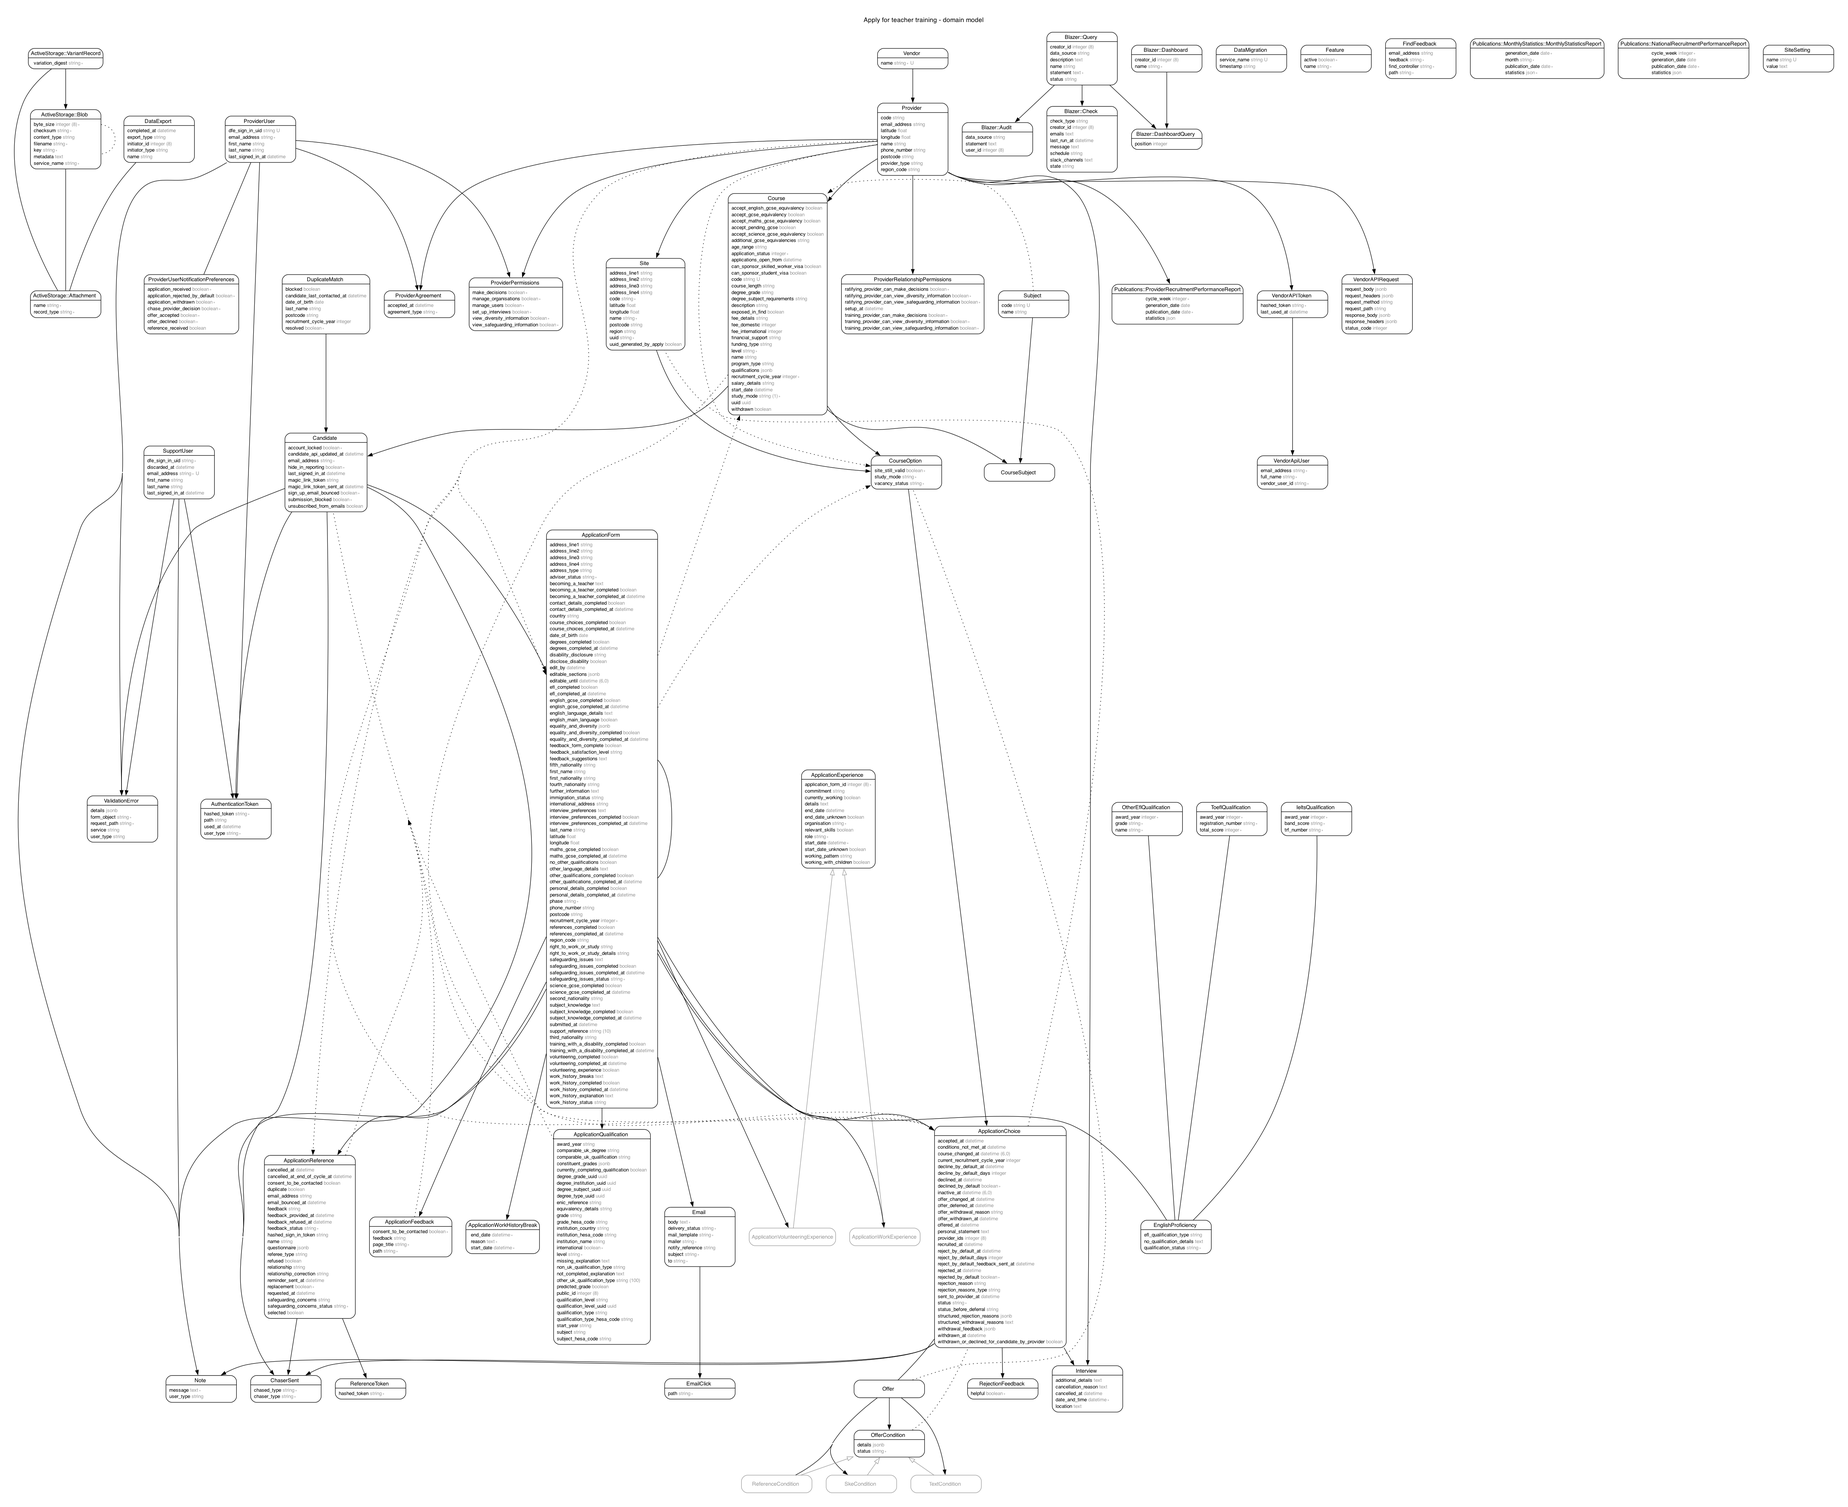
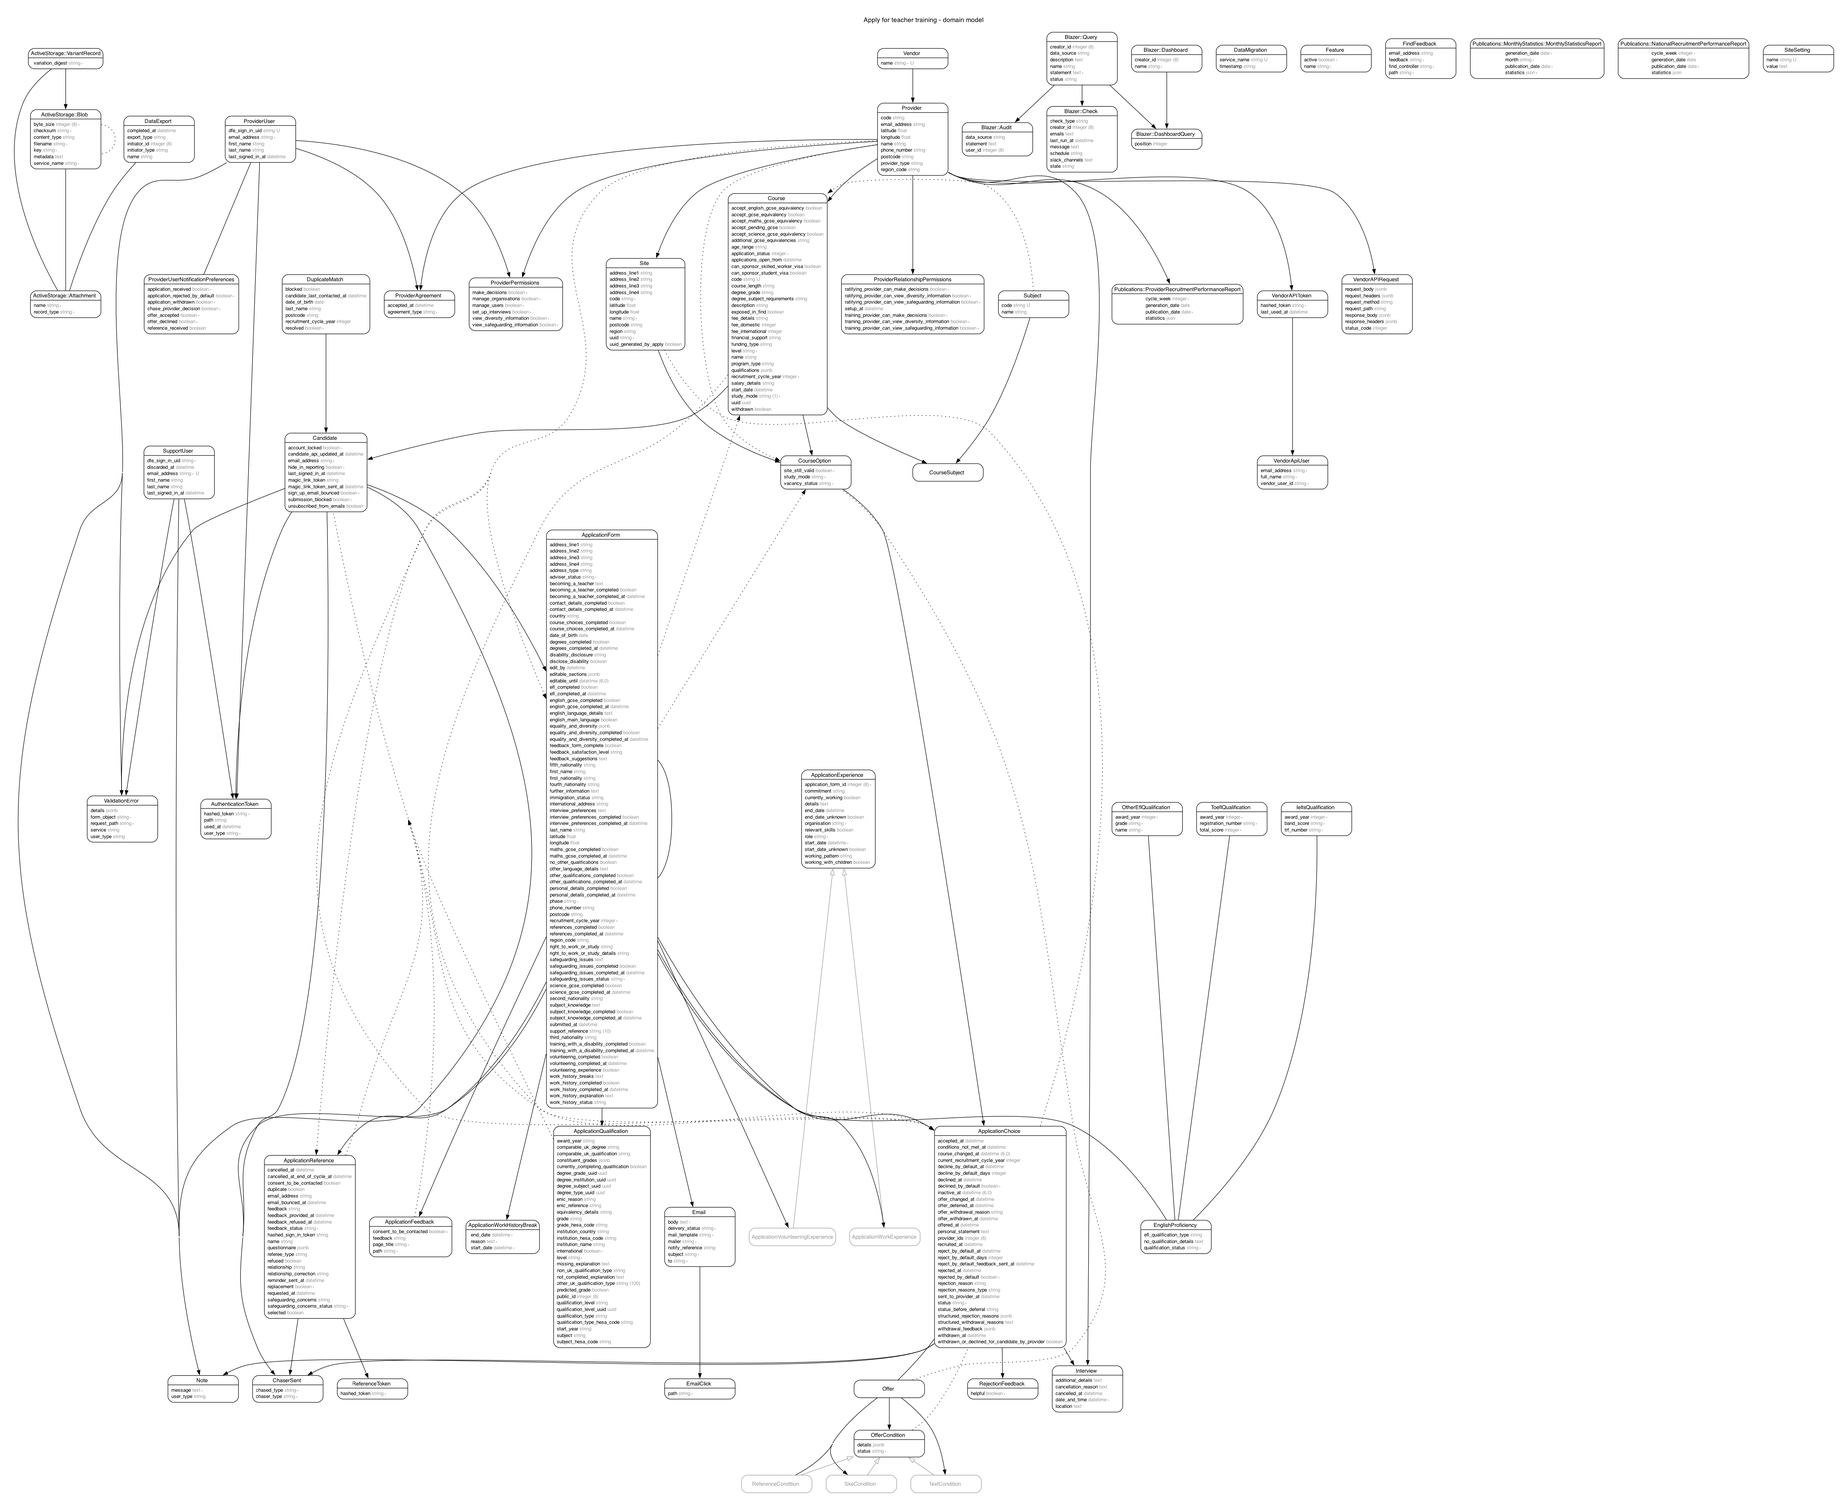
Update ENIC flow and content

Changed region(s): [[0.2806, 0.7484, 0.343, 0.9043], [0.4365, 0.2806, 0.4989, 0.343], [0.1247, 0.9043, 0.1559, 0.9354]]

diff --git a/app/controllers/candidate_interface/gcse/enic_controller.rb b/app/controllers/candidate_interface/gcse/enic_controller.rb
@@ -1,21 +1,24 @@
 module CandidateInterface
   class Gcse::EnicController < Gcse::BaseController
     include Gcse::ResolveGcseEditPathConcern
+    include Gcse::ResolveGcseStatementComparibilityPathConcern
 
     def new
-      @enic_form = GcseEnicForm.build_from_qualification(current_qualification)
+      @enic_form = GcseEnicSelectionForm.build_from_qualification(current_qualification)
     end
 
     def edit
-      @enic_form = GcseEnicForm.build_from_qualification(current_qualification)
+      @enic_form = GcseEnicSelectionForm.build_from_qualification(current_qualification)
       @return_to = return_to_after_edit(default: candidate_interface_gcse_review_path)
     end
 
     def create
-      @enic_form = GcseEnicForm.new(enic_params)
+      @enic_form = GcseEnicSelectionForm.new(enic_params)
 
       if @enic_form.save(current_qualification)
-        redirect_to resolve_gcse_edit_path(subject_param)
+        redirect_to resolve_gcse_edit_path(subject_param) if enic_params[:have_enic_reference] == "No, I'm waiting for it to arrive"
+        redirect_to resolve_gcse_edit_path(subject_param) if enic_params[:have_enic_reference] == 'No, I do not want a statement of comparability'
+        redirect_to resolve_gcse_statement_comparibility_path(subject_param) if enic_params[:have_enic_reference] == 'Yes'
       else
         track_validation_error(@enic_form)
         render :new
@@ -23,11 +26,15 @@ module CandidateInterface
     end
 
     def update
-      @enic_form = GcseEnicForm.new(enic_params)
+      @enic_form = GcseEnicSelectionForm.new(enic_params)
       @return_to = return_to_after_edit(default: candidate_interface_gcse_review_path)
 
       if @enic_form.save(current_qualification)
-        redirect_to @return_to[:back_path]
+        if enic_params[:have_enic_reference] == 'Yes'
+          redirect_to resolve_gcse_edit_statement_comparibility_path(subject_param)
+        else
+          redirect_to @return_to[:back_path]
+        end
       else
         track_validation_error(@enic_form)
         render :edit
@@ -37,9 +44,10 @@ module CandidateInterface
   private
 
     def enic_params
-      strip_whitespace params
-        .require(:candidate_interface_gcse_enic_form)
-        .permit(:have_enic_reference, :enic_reference, :comparable_uk_qualification)
+      form_params = params[:candidate_interface_gcse_enic_selection_form]
+      return {} unless form_params
+
+      strip_whitespace(form_params).permit(:have_enic_reference)
     end
   end
 end

diff --git a/spec/forms/candidate_interface/gcse_enic_form_spec.rb b/spec/forms/candidate_interface/gcse_enic_form_spec.rb
@@ -11,19 +11,8 @@ RSpec.describe CandidateInterface::GcseEnicForm do
       }
     end
 
-    it { is_expected.to validate_presence_of(:have_enic_reference) }
-
-    context 'validates enic_reference if they have chosen that they have one' do
-      before { allow(form).to receive(:chose_to_provide_enic_reference?).and_return(true) }
-
-      it { is_expected.to validate_presence_of(:enic_reference) }
-    end
-
-    context 'validates comparable_uk_qualification if they have chosen to provide a ENIC reference' do
-      before { allow(form).to receive(:chose_to_provide_enic_reference?).and_return(true) }
-
-      it { is_expected.to validate_presence_of(:comparable_uk_qualification) }
-    end
+    it { is_expected.to validate_presence_of(:enic_reference) }
+    it { is_expected.to validate_presence_of(:comparable_uk_qualification) }
 
     describe '#build_from_qualification' do
       it 'creates an object based on the provided ApplicationQualification' do
@@ -32,7 +21,6 @@ RSpec.describe CandidateInterface::GcseEnicForm do
           qualification,
         )
 
-        expect(enic_form.have_enic_reference).to eq 'Yes'
         expect(enic_form.enic_reference).to eq qualification.enic_reference
         expect(enic_form.comparable_uk_qualification).to eq qualification.comparable_uk_qualification
       end
@@ -41,7 +29,6 @@ RSpec.describe CandidateInterface::GcseEnicForm do
     describe '#save' do
       let(:form_data) do
         {
-          have_enic_reference: 'Yes',
           enic_reference: '12345',
           comparable_uk_qualification: 'GCSE (grades A*-C / 9-4)',
         }
@@ -60,19 +47,6 @@ RSpec.describe CandidateInterface::GcseEnicForm do
         expect(enic_form.save(qualification)).to be(true)
         expect(qualification.enic_reference).to eq form_data[:enic_reference]
         expect(qualification.comparable_uk_qualification).to eq form_data[:comparable_uk_qualification]
-      end
-
-      it 'updates enic_reference and comparable_uk_qualification to nil if they choose no' do
-        qualification = build(:gcse_qualification)
-        enic_form = described_class.new(
-          have_enic_reference: 'No',
-          enic_reference: '12345',
-          comparable_uk_qualification: 'GCSE (grades A*-C / 9-4)',
-        )
-
-        expect(enic_form.save(qualification)).to be(true)
-        expect(qualification.enic_reference).to be_nil
-        expect(qualification.comparable_uk_qualification).to be_nil
       end
     end
   end

diff --git a/app/components/candidate_interface/gcse_qualification_review_component.rb b/app/components/candidate_interface/gcse_qualification_review_component.rb
@@ -1,6 +1,7 @@
 module CandidateInterface
   class GcseQualificationReviewComponent < ViewComponent::Base
     include GcseQualificationHelper
+    include Gcse::ResolveGcseStatementComparibilityPathConcern
 
     def initialize(application_form:, application_qualification:, subject:, editable: true, heading_level: 2, missing_error: false, submitting_application: false, return_to_application_review: false)
       @application_form = application_form
@@ -248,7 +249,7 @@ module CandidateInterface
 
       {
         key: t('application_form.gcse.enic_statement.review_label'),
-        value: application_qualification.enic_reference ? 'Yes' : 'No',
+        value: application_qualification.enic_reason || 'Not entered',
         action: {
           href: candidate_interface_gcse_details_edit_enic_path(change_path_params),
           visually_hidden_text: t('application_form.gcse.enic_statement.change_action'),
@@ -269,7 +270,7 @@ module CandidateInterface
         key: t('application_form.gcse.enic_reference.review_label'),
         value: application_qualification.enic_reference,
         action: {
-          href: candidate_interface_gcse_details_edit_enic_path(change_path_params),
+          href: resolve_gcse_edit_statement_comparibility_path(change_path_params[:subject]),
           visually_hidden_text: t('application_form.gcse.enic_reference.change_action'),
         },
         html_attributes: {
@@ -288,7 +289,7 @@ module CandidateInterface
         key: t('application_form.gcse.comparable_uk_qualification.review_label'),
         value: application_qualification.comparable_uk_qualification,
         action: {
-          href: candidate_interface_gcse_details_edit_enic_path(change_path_params),
+          href: resolve_gcse_edit_statement_comparibility_path(change_path_params[:subject]),
           visually_hidden_text: t('application_form.gcse.comparable_uk_qualification.change_action'),
         },
         html_attributes: {

diff --git a/config/routes/candidate.rb b/config/routes/candidate.rb
@@ -200,6 +200,21 @@ namespace :candidate_interface, path: '/candidate' do
       patch '/science/grade' => 'gcse/science/grade#create'
       get '/science/grade/edit' => 'gcse/science/grade#edit', as: :edit_gcse_science_grade
       patch '/science/grade/edit' => 'gcse/science/grade#update'
+
+      get '/maths/statement_comparibility' => 'gcse/maths/statement_comparibility#new', as: :new_gcse_maths_statement_comparibility
+      patch '/maths/statement_comparibility' => 'gcse/maths/statement_comparibility#create'
+      get '/maths/statement_comparibility/edit' => 'gcse/maths/statement_comparibility#edit', as: :edit_gcse_maths_statement_comparibility
+      patch '/maths/statement_comparibility/edit' => 'gcse/maths/statement_comparibility#update'
+
+      get '/english/statement_comparibility' => 'gcse/english/statement_comparibility#new', as: :new_gcse_english_statement_comparibility
+      patch '/english/statement_comparibility' => 'gcse/english/statement_comparibility#create'
+      get '/english/statement_comparibility/edit' => 'gcse/english/statement_comparibility#edit', as: :edit_gcse_english_statement_comparibility
+      patch '/english/statement_comparibility/edit' => 'gcse/english/statement_comparibility#update'
+
+      get '/science/statement_comparibility' => 'gcse/science/statement_comparibility#new', as: :new_gcse_science_statement_comparibility
+      patch '/science/statement_comparibility' => 'gcse/science/statement_comparibility#create'
+      get '/science/statement_comparibility/edit' => 'gcse/science/statement_comparibility#edit', as: :edit_gcse_science_statement_comparibility
+      patch '/science/statement_comparibility/edit' => 'gcse/science/statement_comparibility#update'
     end
 
     scope '/gcse/:subject', constraints: { subject: /(maths|english|science)/ } do

diff --git a/app/controllers/candidate_interface/gcse/maths/statement_comparibility_controller.rb b/app/controllers/candidate_interface/gcse/maths/statement_comparibility_controller.rb
@@ -1,0 +1,55 @@
+module CandidateInterface
+  class Gcse::Maths::StatementComparibilityController < Gcse::BaseController
+    include Gcse::ResolveGcseEditPathConcern
+
+    before_action :set_previous_path, only: %i[new create]
+
+    def new
+      @enic_form = GcseEnicForm.build_from_qualification(current_qualification)
+    end
+
+    def edit
+      @enic_form = GcseEnicForm.build_from_qualification(current_qualification)
+      @return_to = return_to_after_edit(default: candidate_interface_gcse_review_path(subject_param))
+    end
+
+    def create
+      @enic_form = GcseEnicForm.new(enic_params)
+
+      if @enic_form.save(current_qualification)
+        redirect_to resolve_gcse_edit_path(subject_param)
+      else
+        track_validation_error(@enic_form)
+        render :new
+      end
+    end
+
+    def update
+      @enic_form = GcseEnicForm.new(enic_params)
+      @return_to = return_to_after_edit(default: candidate_interface_gcse_review_path(subject_param))
+
+      if @enic_form.save(current_qualification)
+        redirect_to @return_to[:back_path]
+      else
+        track_validation_error(@enic_form)
+        render :edit
+      end
+    end
+
+  private
+
+    def set_previous_path
+      @previous_path = if current_qualification.non_uk_qualification_type.present?
+                         candidate_interface_gcse_details_new_enic_path(subject: @subject)
+                       else
+                         candidate_interface_gcse_details_new_type_path(subject: @subject)
+                       end
+    end
+
+    def enic_params
+      strip_whitespace params
+        .require(:candidate_interface_gcse_enic_form)
+        .permit(:enic_reference, :comparable_uk_qualification)
+    end
+  end
+end

diff --git a/spec/system/candidate_interface/entering_details/degrees/candidate_entering_international_degrees_spec.rb b/spec/system/candidate_interface/entering_details/degrees/candidate_entering_international_degrees_spec.rb
@@ -1,6 +1,6 @@
 require 'rails_helper'
 
-RSpec.feature 'Entering an international degree' do
+RSpec.describe 'Entering an international degree' do
   include CandidateHelper
 
   scenario 'Candidate enters their degree' do
@@ -64,7 +64,7 @@ RSpec.feature 'Entering an international degree' do
     # Mark section as complete
     when_i_mark_this_section_as_completed
     and_i_click_on_continue
-    then_i_should_see_the_form
+    then_i_see_the_form
     and_that_the_section_is_completed
     when_i_click_on_degree
     then_i_can_check_my_answers
@@ -169,7 +169,7 @@ RSpec.feature 'Entering an international degree' do
   end
 
   def then_i_can_see_the_enic_page
-    expect(page).to have_content 'Do you have a statement of comparability from UK ENIC (the UK agency that recognises international qualifications and skills)?'
+    expect(page).to have_content 'Do you have a statement of comparability from UK ENIC'
   end
 
   def when_i_check_yes_for_enic_statement
@@ -205,7 +205,7 @@ RSpec.feature 'Entering an international degree' do
     when_i_click_on_continue
   end
 
-  def then_i_should_see_the_form
+  def then_i_see_the_form
     expect(page).to have_content(t('page_titles.application_form'))
   end
 

diff --git a/app/controllers/candidate_interface/gcse/resolve_gcse_statement_comparibility_path_concern.rb b/app/controllers/candidate_interface/gcse/resolve_gcse_statement_comparibility_path_concern.rb
@@ -1,0 +1,27 @@
+module CandidateInterface
+  module Gcse
+    module ResolveGcseStatementComparibilityPathConcern
+      def resolve_gcse_statement_comparibility_path(subject)
+        case subject
+        when 'maths'
+          candidate_interface_new_gcse_maths_statement_comparibility_path(subject:)
+        when 'science'
+          candidate_interface_new_gcse_science_statement_comparibility_path(subject:)
+        when 'english'
+          candidate_interface_new_gcse_english_statement_comparibility_path(subject:)
+        end
+      end
+
+      def resolve_gcse_edit_statement_comparibility_path(subject)
+        case subject
+        when 'maths'
+          candidate_interface_edit_gcse_maths_statement_comparibility_path(subject:)
+        when 'science'
+          candidate_interface_edit_gcse_science_statement_comparibility_path(subject:)
+        when 'english'
+          candidate_interface_edit_gcse_english_statement_comparibility_path(subject:)
+        end
+      end
+    end
+  end
+end

diff --git a/app/forms/candidate_interface/gcse_enic_selection_form.rb b/app/forms/candidate_interface/gcse_enic_selection_form.rb
@@ -1,14 +1,14 @@
 module CandidateInterface
-  class GcseEnicForm
+  class GcseEnicSelectionForm
     include ActiveModel::Model
 
-    attr_accessor :enic_reference, :comparable_uk_qualification
+    attr_accessor :have_enic_reference, :enic_reference, :comparable_uk_qualification
 
-    validates :enic_reference, presence: true
-    validates :comparable_uk_qualification, presence: true
+    validates :have_enic_reference, presence: true
 
     def self.build_from_qualification(qualification)
       new(
+        have_enic_reference: qualification.enic_reason,
         enic_reference: qualification.enic_reference,
         comparable_uk_qualification: qualification.comparable_uk_qualification,
       )
@@ -18,6 +18,7 @@ module CandidateInterface
       return false unless valid?
 
       qualification.update!(
+        enic_reason: have_enic_reference,
         enic_reference: enic_reference,
         comparable_uk_qualification: comparable_uk_qualification,
       )

diff --git a/db/schema.rb b/db/schema.rb
@@ -10,7 +10,7 @@
 #
 # It's strongly recommended that you check this file into your version control system.
 
-ActiveRecord::Schema[7.1].define(version: 2024_06_25_105759) do
+ActiveRecord::Schema[7.1].define(version: 2024_07_16_191616) do
   create_sequence "qualifications_public_id_seq", start: 120000
 
   # These are extensions that must be enabled in order to support this database
@@ -254,6 +254,7 @@ ActiveRecord::Schema[7.1].define(version: 2024_06_25_105759) do
     t.uuid "degree_grade_uuid"
     t.string "qualification_level"
     t.uuid "qualification_level_uuid"
+    t.string "enic_reason"
     t.index ["application_form_id"], name: "index_application_qualifications_on_application_form_id"
     t.index ["grade_hesa_code"], name: "qualifications_by_grade_hesa_code"
     t.index ["institution_hesa_code"], name: "qualifications_by_institution_hesa_code"

diff --git a/spec/system/candidate_interface/entering_details/candidate_changing_gcse_to_international_qualification_spec.rb b/spec/system/candidate_interface/entering_details/candidate_changing_gcse_to_international_qualification_spec.rb
@@ -1,6 +1,6 @@
 require 'rails_helper'
 
-RSpec.feature 'Candidate changing UK GCSE to international qualification' do
+RSpec.describe 'Candidate changing UK GCSE to international qualification' do
   include CandidateHelper
 
   scenario 'Candidate submits their maths GCSE details and then update them' do
@@ -127,6 +127,7 @@ RSpec.feature 'Candidate changing UK GCSE to international qualification' do
 
   def when_i_fill_in_my_enic_reference_and_choose_an_equivalency
     choose 'Yes'
+    click_link_or_button t('save_and_continue')
     fill_in 'candidate-interface-gcse-enic-form-enic-reference-field', with: '12345'
     choose 'GCSE (grades A*-C / 9-4)'
   end

diff --git a/spec/components/candidate_interface/gcse_qualification_review_component_spec.rb b/spec/components/candidate_interface/gcse_qualification_review_component_spec.rb
@@ -15,6 +15,7 @@ RSpec.describe CandidateInterface::GcseQualificationReviewComponent do
         institution_country: 'US',
         enic_reference: '12345',
         comparable_uk_qualification: 'Between GCSE and GCE AS level',
+        enic_reason: 'Yes',
       )
       result = render_inline(
         described_class.new(application_form:, application_qualification:, subject: 'maths'),

diff --git a/db/migrate/20240716191616_add_enic_statement_of_comparability.rb b/db/migrate/20240716191616_add_enic_statement_of_comparability.rb
@@ -1,0 +1,5 @@
+class AddEnicStatementOfComparability < ActiveRecord::Migration[7.1]
+  def change
+    add_column :application_qualifications, :enic_reason, :string
+  end
+end
